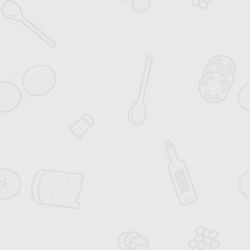
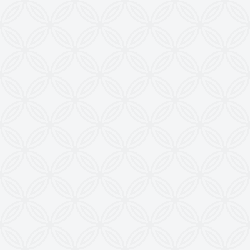
minor changes, bg img, more comment

diff --git a/public/js/controllers/playController.js b/public/js/controllers/playController.js
@@ -146,7 +146,7 @@
          * If guest, request to login then edit categories
          * @param ev
          */
-        $scope.showConfirm = function(ev) {
+        $scope.showLoginRequest = function(ev) {
             // Appending dialog to document.body to cover sidenav in docs app
             var confirm = $mdDialog.confirm()
                 .title('Would you like to login and enjoy more feature?')

diff --git a/app/Http/Controllers/CategoriesController.php b/app/Http/Controllers/CategoriesController.php
@@ -14,9 +14,9 @@ class CategoriesController extends Controller {
     public function __construct()
     {
         $this->myCategories = array(
-            ['id' => 99999997, 'name' => "Breakfast", 'items' => '面包, 蛋糕, 荷包蛋, 烧饼, 饽饽, 油条, 馄饨, 火腿'],
-            ['id' => 99999998, 'name' => "Lunch", 'items' => '盖浇饭, 砂锅, 大排档, 米线, 满汉全席, 西餐, 麻辣烫, 自助餐, 炒面, 快餐, 水果, 西北风, 馄饨, 火锅, 烧烤, 面'],
-            ['id' => 99999999, 'name' => "Dinner", 'items' => '速冻水饺, 日本料理, 涮羊肉, 味千拉面, 肯德基, 面包, 扬州炒饭, 自助餐, 茶餐厅, 海底捞, 咖啡, 比萨, 麦当劳, 兰州拉面, 沙县小吃']
+            ['id' => 99999997, 'name' => "Breakfast", 'items' => 'Cereal, Pancake, Fruit, French Toast, Bacon, Eggs, Buy Subway, Muffins'],
+            ['id' => 99999998, 'name' => "Lunch", 'items' => 'Apple Pie, Sandwich, Burger, Subway, McDonald, Fruit Salad, Fish and Chips, Ramen Noodles, Chinese Food, Pizza my love!, BBQ'],
+            ['id' => 99999999, 'name' => "Movie List", 'items' => 'Iron Man, San Andreas, Avengers 2, Tomorrowland, Spider-Man, Jurassic Park, Argo, Life of Pie, Titanic, Terminator, Harry Potter']
         );
     }
 

diff --git a/resources/views/categories/index.blade.php b/resources/views/categories/index.blade.php
@@ -19,9 +19,17 @@
 
                 <div class="editBtn" layout="row" layout-align="end center">
                     @if (Auth::guest())
-                        <md-button ng-click="showConfirm($event)" ng-disabled="playing || !category"
+                        <md-button ng-click="showLoginRequest($event)" ng-disabled="playing || !category"
                                    class="md-accent md-raised  md-hue-1" layout
                                    layout-align="center center">Edit
+                        </md-button>
+                        <md-button ng-click="showLoginRequest($event)" ng-disabled="playing" class="md-primary md-raised"
+                                   layout
+                                   layout-align="center center">New
+                        </md-button>
+                        <md-button ng-click="showLoginRequest($event)" ng-disabled="playing || !category"
+                                   class="md-warn md-raised" layout
+                                   layout-align="center center">remove
                         </md-button>
                     @else
                         <md-button ng-click="showItems($event)" ng-disabled="playing || !category"

diff --git a/app/Http/routes.php b/app/Http/routes.php
@@ -11,14 +11,16 @@
 |
 */
 
+/**
+ * to avoid conflicts with angularJs
+ */
 Blade::setContentTags('<%', '%>');        // for variables and all things Blade
 Blade::setEscapedContentTags('<%%', '%%>');   // for escaped data
+
 /**
  * Page flow setting
  */
-
 Route::get('/', 'WelcomeController@index');
-//Route::get('home', 'HomeController@index');
 
 Route::controllers([
     'auth'     => 'Auth\AuthController',
